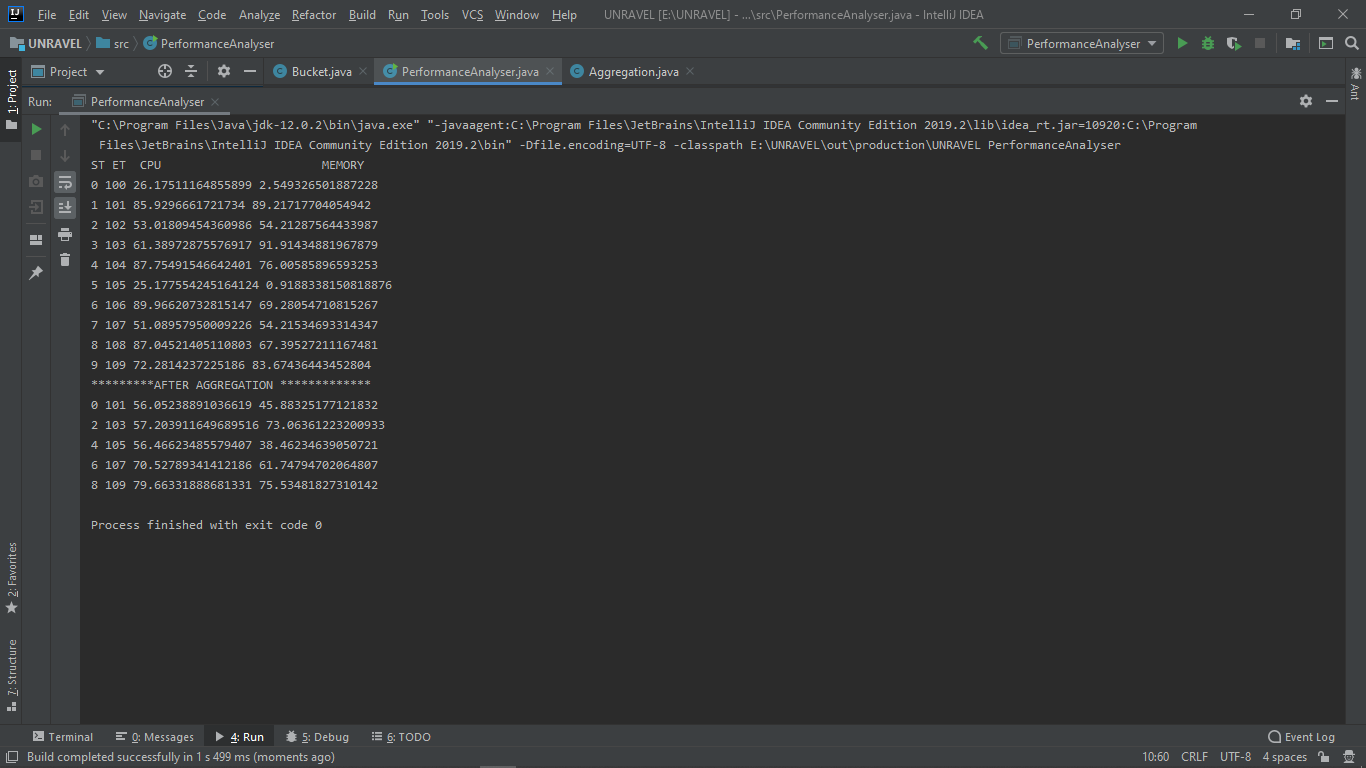
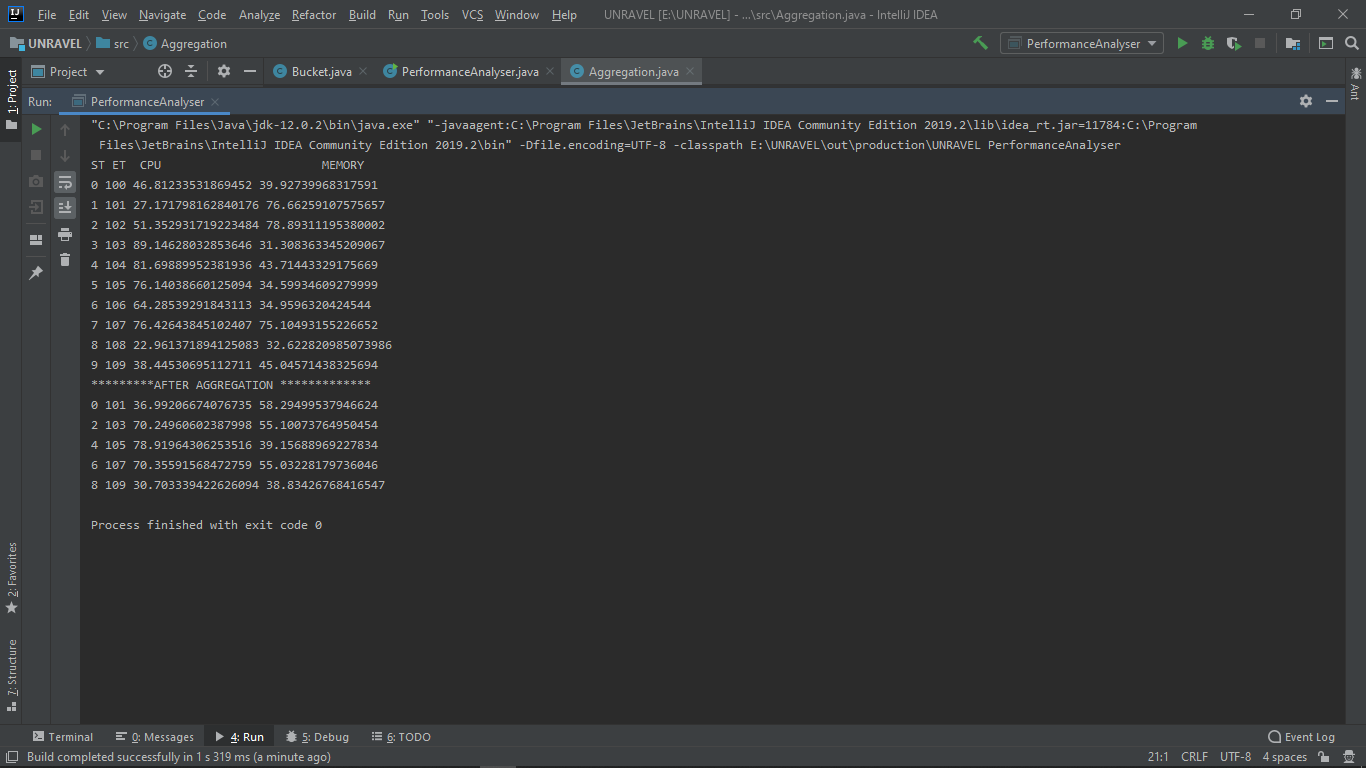
Explicitly setting the object values to avoid overriding

diff --git a/Aggregation.java b/Aggregation.java
@@ -21,11 +21,26 @@ public class Aggregation {
 
             bufferBucket.setMemoryUsage(getAverageMemory(buckets.get(i).getMemoryUsage(),  buckets.get(i+1).getMemoryUsage()));
 
-            buckets.set(mergedIndex, bufferBucket); // replacing the bucket
-            buckets.get(mergedIndex).printBucket();
+            // previously i used to over ride the bucket, but i realised my mistake, the same bucket will be assigned to all
+            // so i am setting the values now explicitly. Now the overrides will not happen
+
+            buckets.get(mergedIndex).setStartTime(bufferBucket.startTime);
+
+            buckets.get(mergedIndex).setEndTime(bufferBucket.endTime);
+
+            buckets.get(mergedIndex).setCpuUsage(bufferBucket.cpuUsage);
+
+            buckets.get(mergedIndex).setMemoryUsage(bufferBucket.memoryUsage);
+
+
             mergedIndex++;
 
         }
+
+        for(int i =0; i < mergedIndex; i++) {
+            buckets.get(i).printBucket();
+        }
+
 
     }
 

diff --git a/PerformanceAnalyser.java b/PerformanceAnalyser.java
@@ -3,7 +3,7 @@ import java.util.Random;
 
 public class PerformanceAnalyser {
     public static void main(String args[]) {
-        int MAX_CAPACITY = 64;
+        int MAX_CAPACITY = 10;
         ArrayList<Bucket> bucketList = new ArrayList<Bucket>(MAX_CAPACITY); // creating with max capacity
         Bucket bucket;
         Bucket bufferBucket = new Bucket(); // to maintain the calculatedValues, will be created only once
